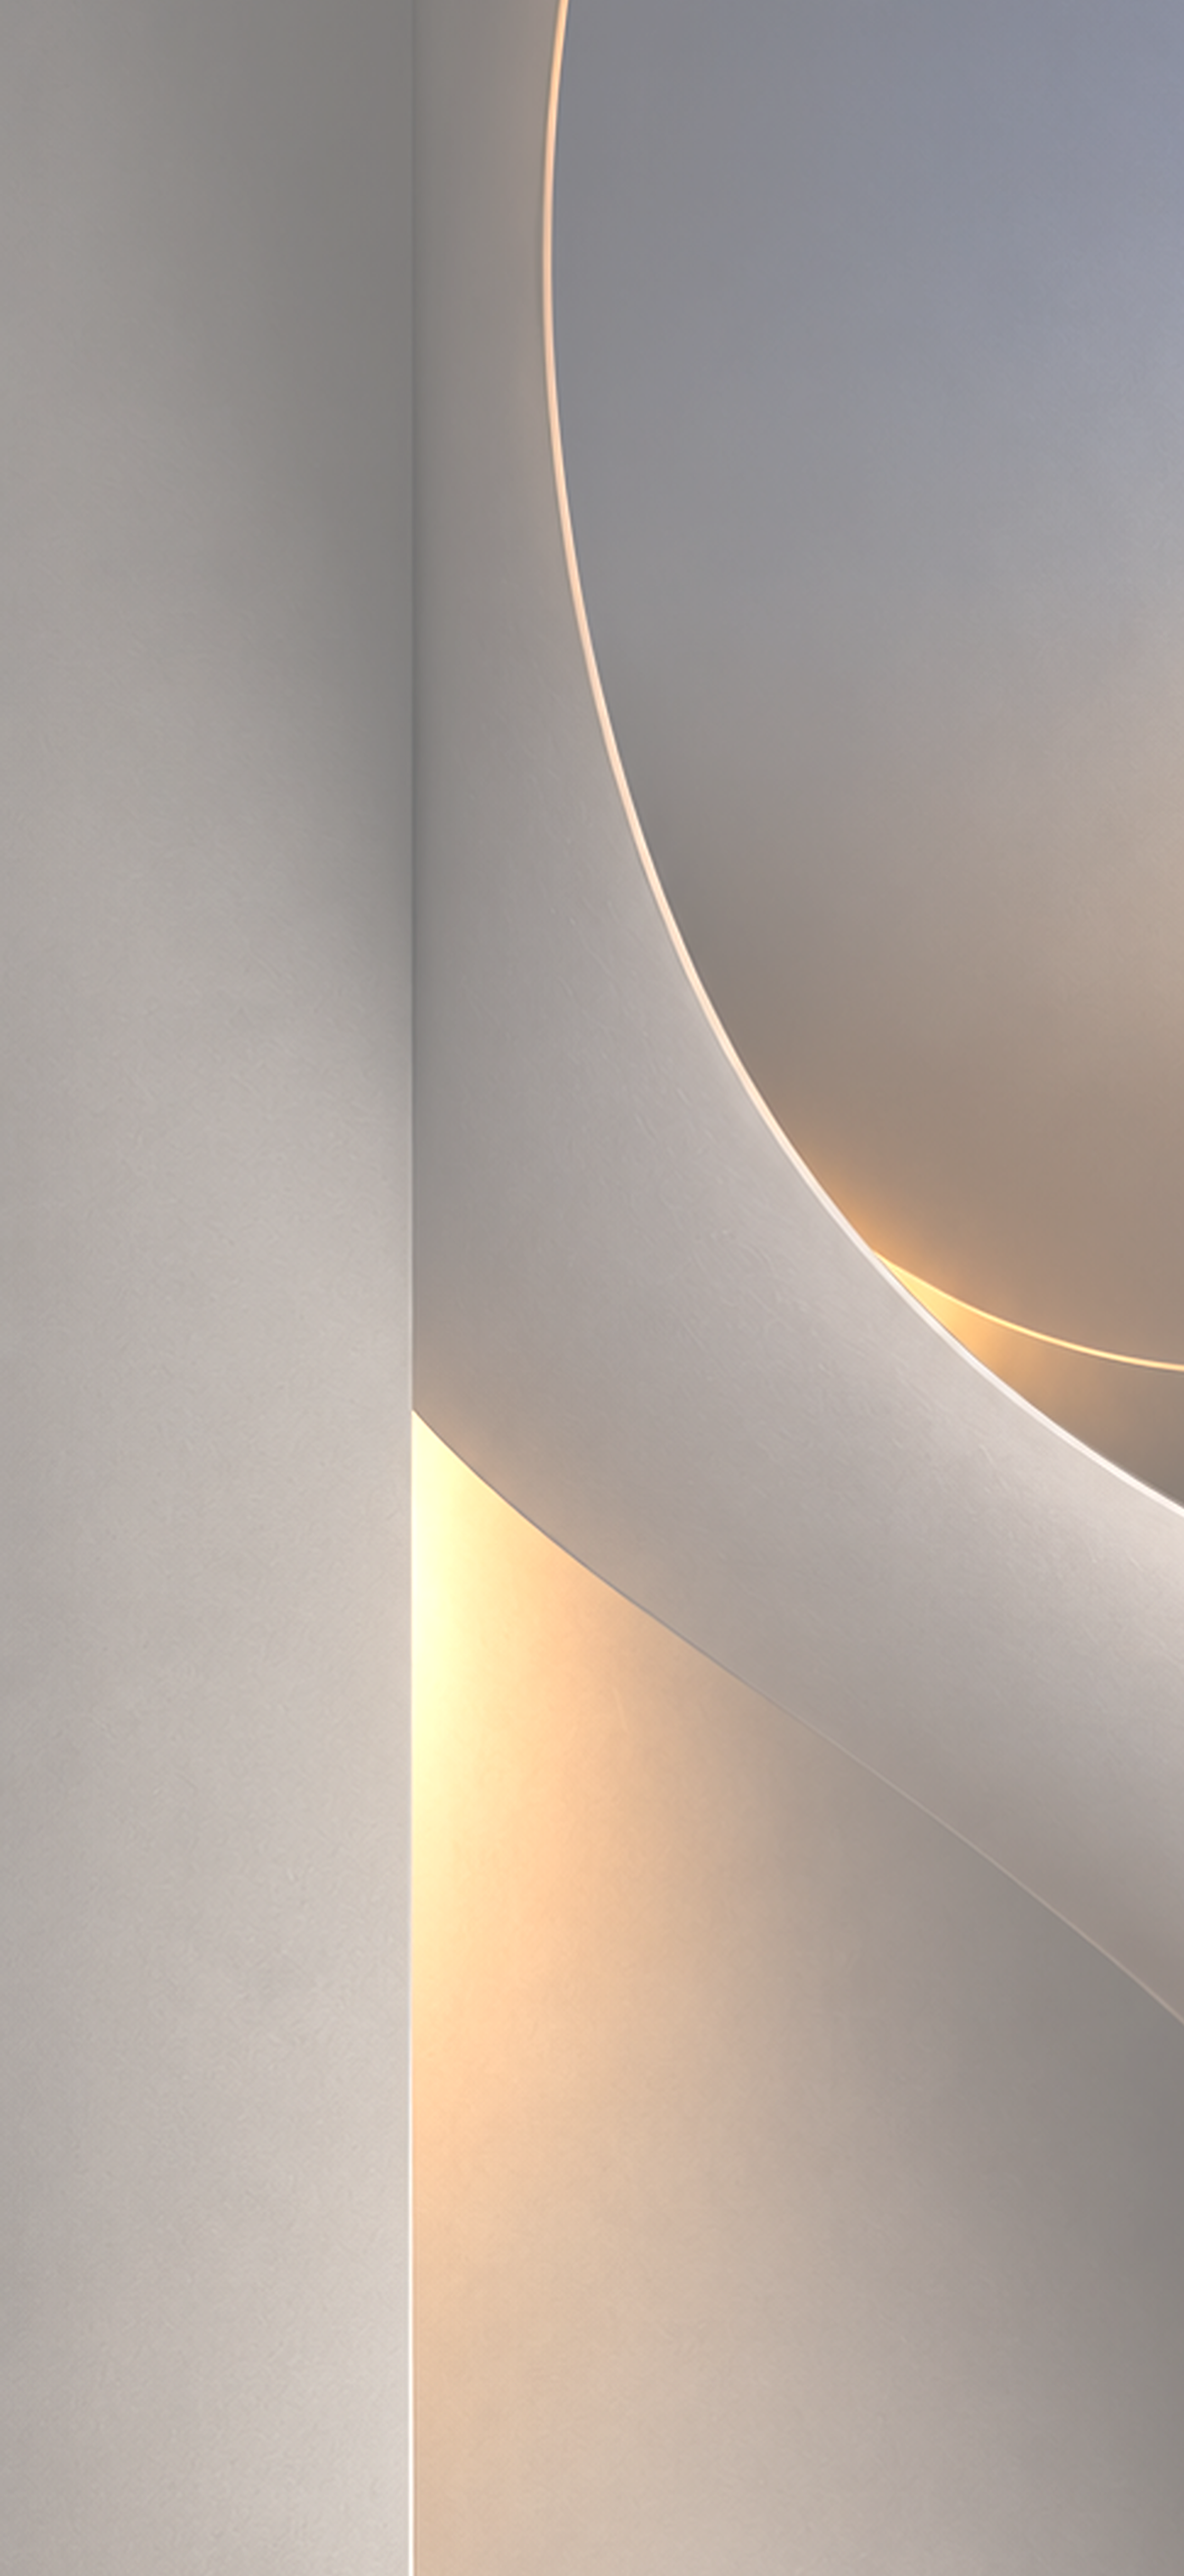
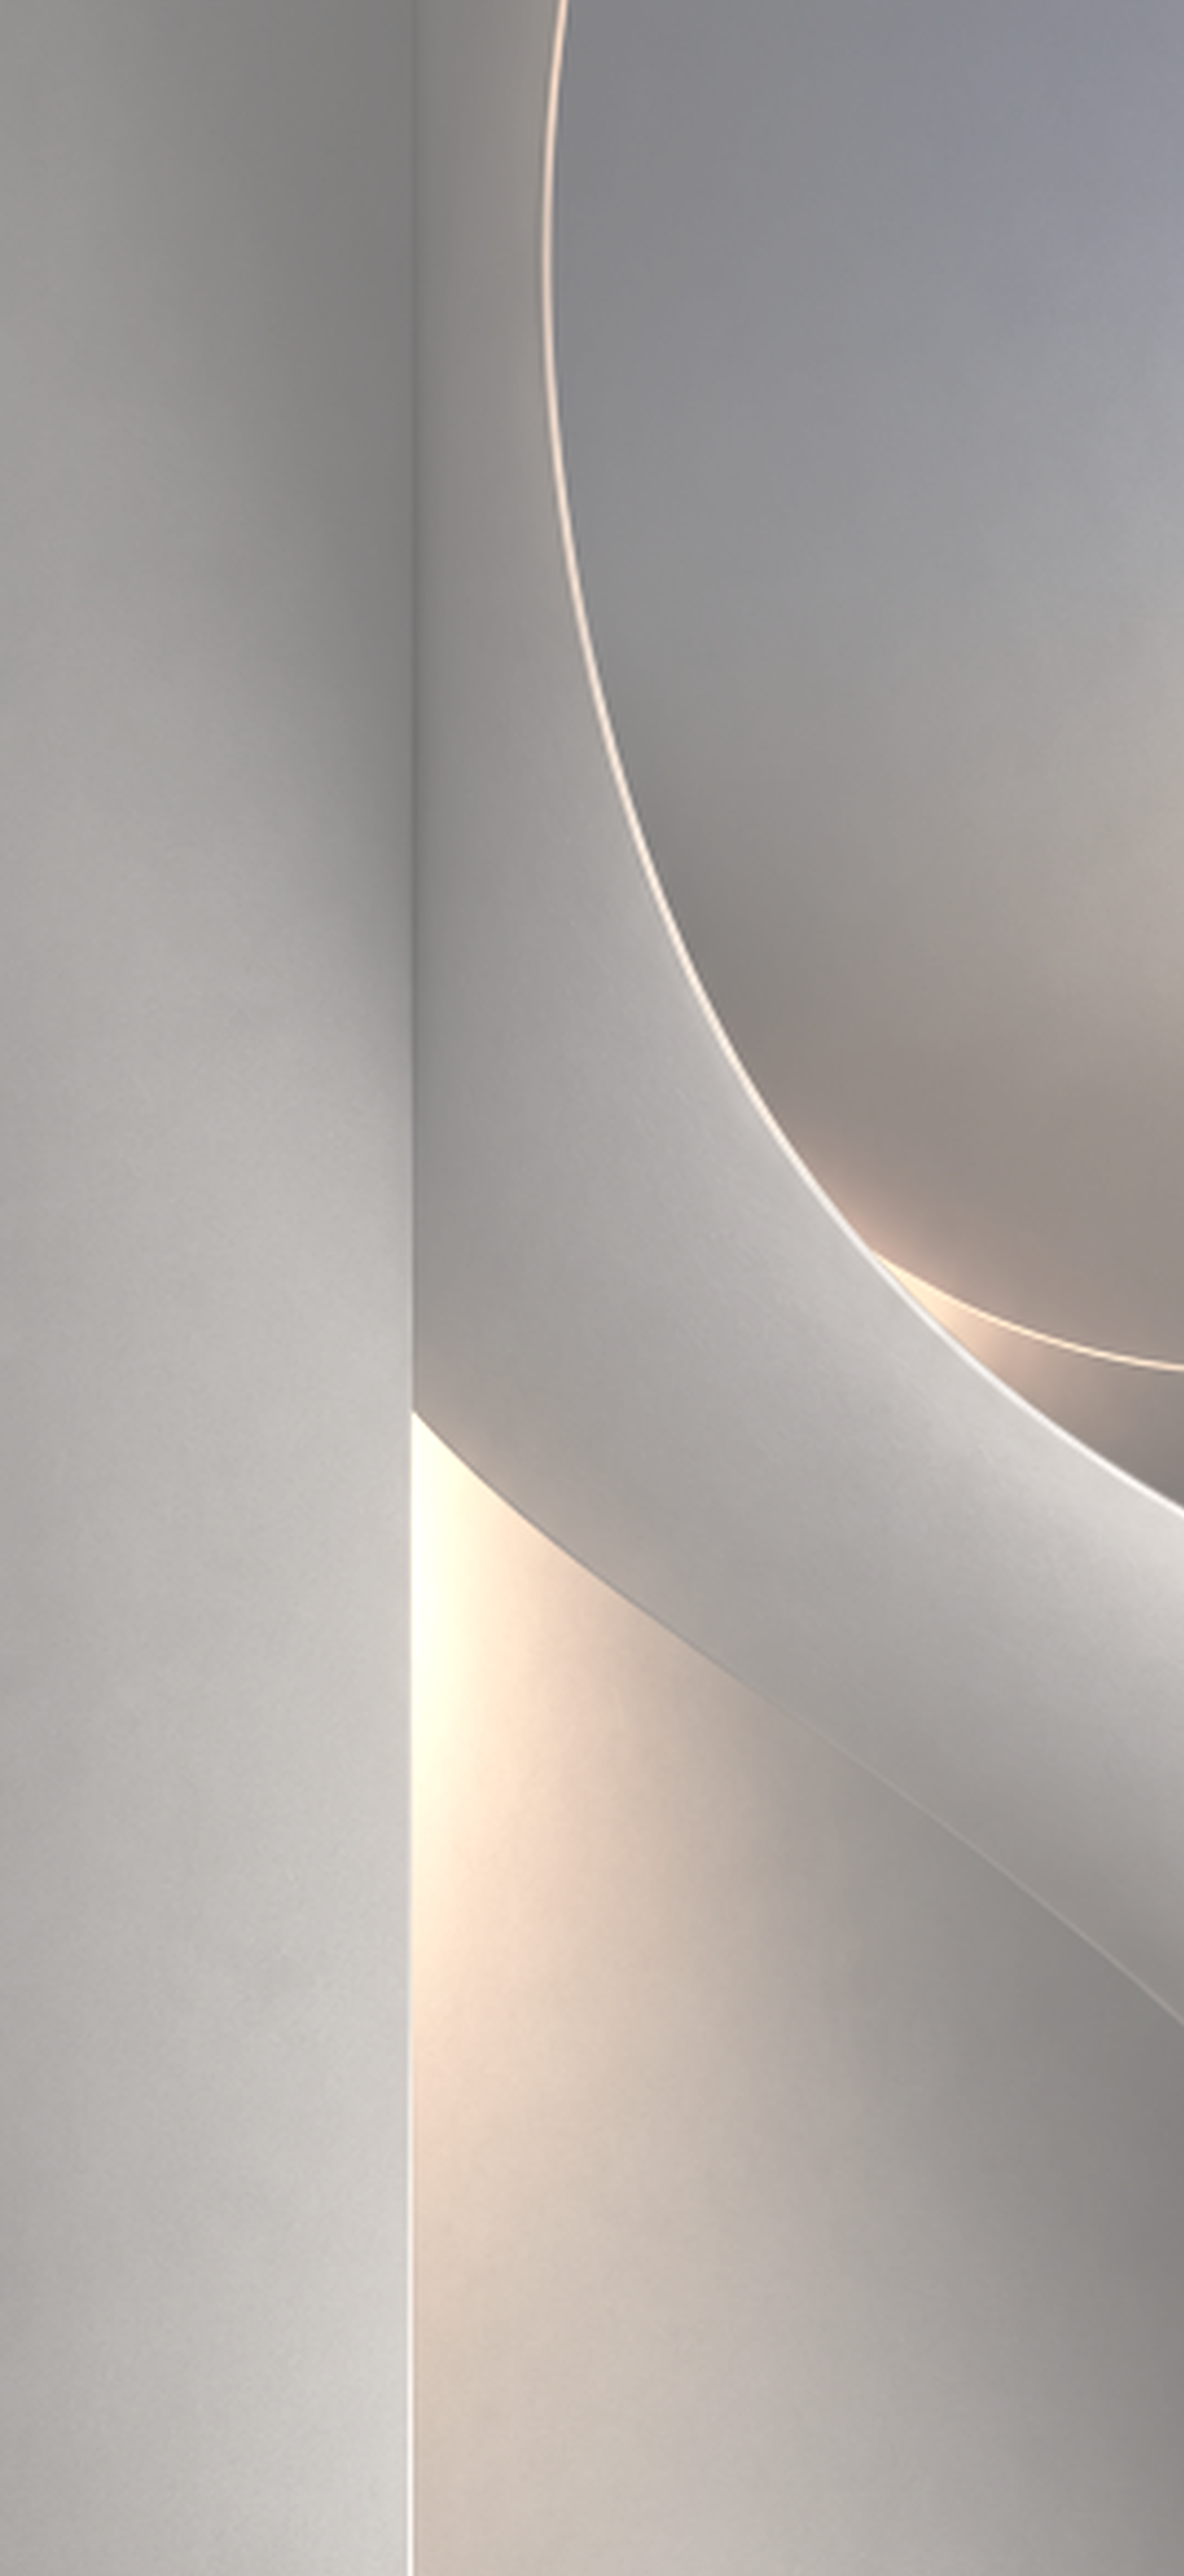
Update wallpaper; make the rim light actually brighter than its backdrop
The hairline was invisible for a measurable reason, not a subtle one: the
wallpaper directly under the pill's lower edge is luminance 195, and the
rim light peaked at 164. It was DARKER than the thing it was supposed to
stand out against, so raising its alpha by 40% and then 50% could never
have worked — both steps stayed under the background.

Now near-white (0.8) and crisper, it peaks at 226 against 161. The
earlier alphas were carried over from the dark-background era, where the
same stroke sat at 101 over an 86 backdrop and read correctly.

diff --git a/ports/ios/PillsDemo/Sources/PillsApp.swift b/ports/ios/PillsDemo/Sources/PillsApp.swift
@@ -184,11 +184,16 @@ func insetRim(radius: CGFloat, bottomLight: Double = 1) -> some View {
         // hugs the bottom arc, and the top carries only a whisper of sheen.
         // Sits ON the bottom edge, not 1pt above it. Figma's inset offset of
         // -1/-2 leaves a sliver of the fill below the light; that fill is
-        // rgba(0,0,0,0.36) and over the light wallpaper it read as a black
-        // hairline hugging the edge — measured at luminance 109 against a
-        // 149 background. Terminating the pill in light removes it.
-        shape.stroke(Color.white.opacity(0.41 * bottomLight), lineWidth: 1.2)
-            .blur(radius: 0.4)
+        // rgba(0,0,0,0.36) and over a light wallpaper it read as a black
+        // hairline hugging the edge. Terminating the pill in light removes it.
+        //
+        // Near-white on purpose. The wallpaper under the pill's lower edge
+        // measures luminance 195, so a rim light at the design's nominal
+        // alpha peaked at 164 — DARKER than its own background, which is why
+        // it read as missing rather than faint. It has to clear 195 to be a
+        // highlight at all.
+        shape.stroke(Color.white.opacity(0.8 * bottomLight), lineWidth: 2)
+            .blur(radius: 0.25)
             .mask(
                 LinearGradient(
                     stops: [.init(color: .clear, location: 0.5), .init(color: .white, location: 1)],
